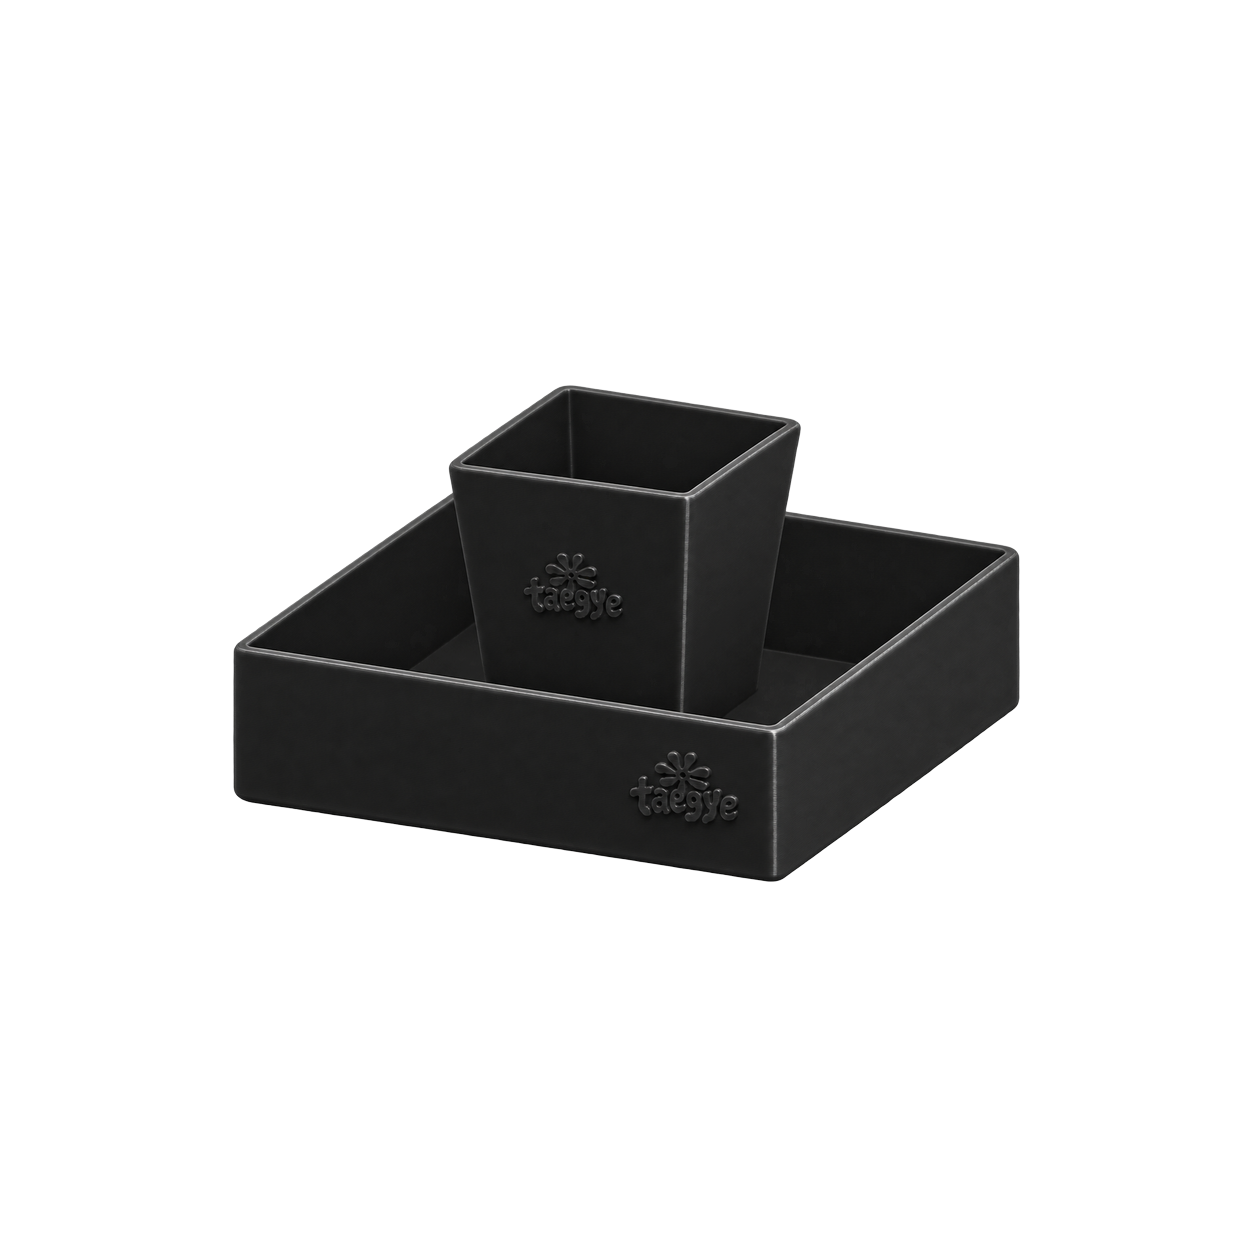
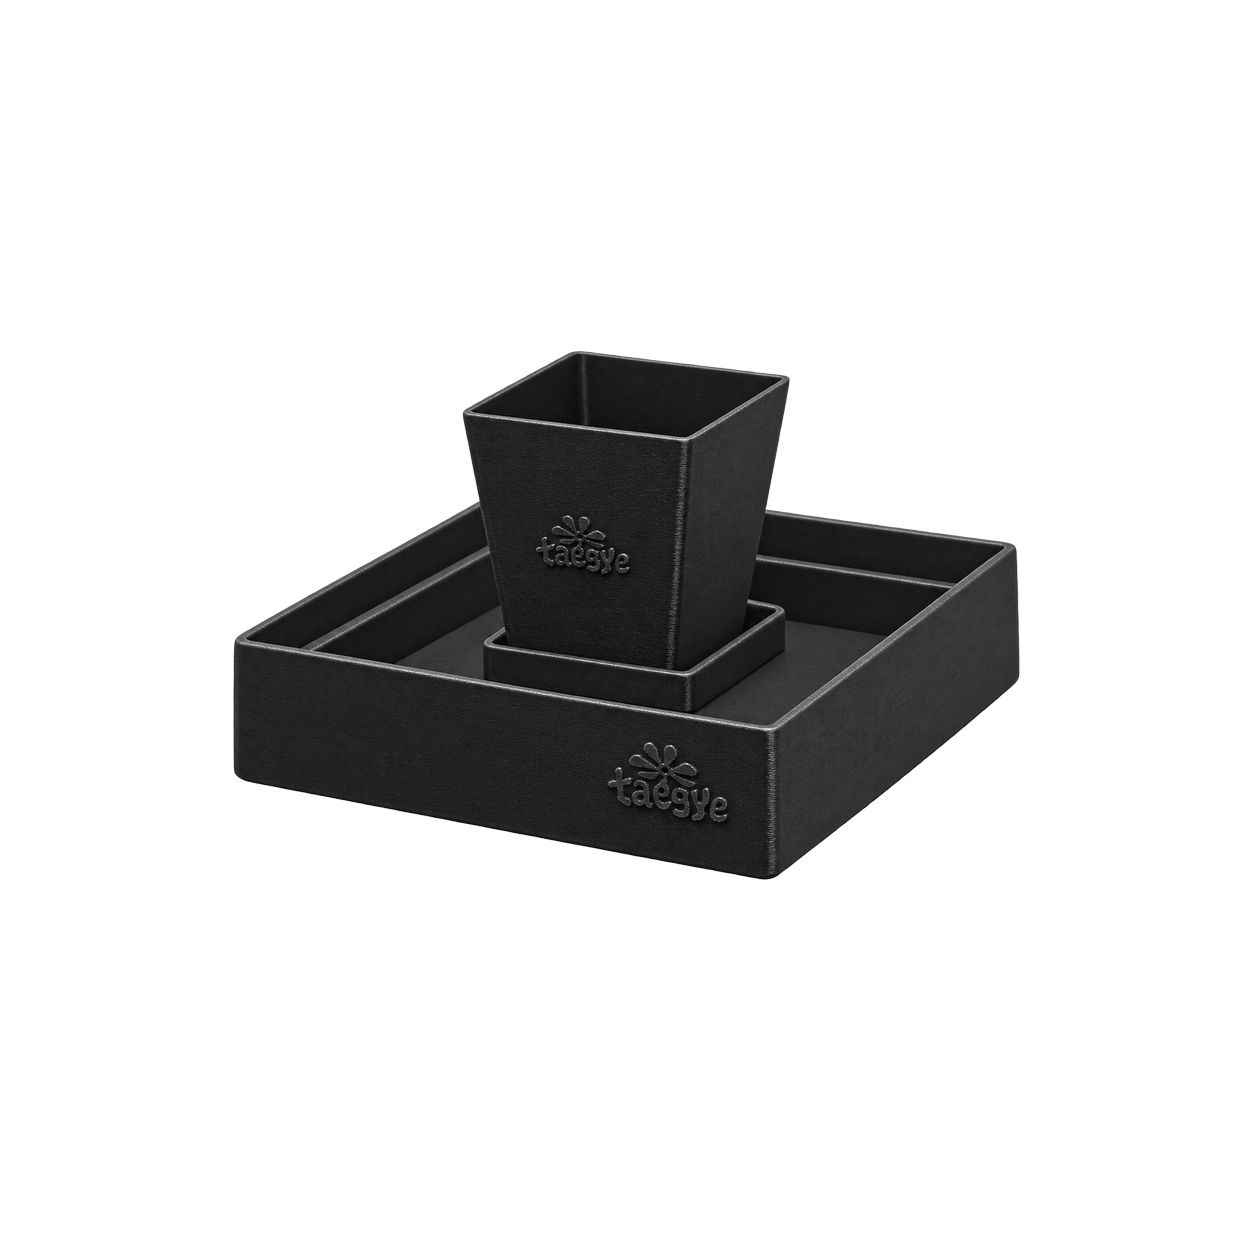
Replace One Port 141 with the saucer renders.
Empty and planted cuts stay centered on the 1254 square at the previous width. The feature lines still match a tapered square pot with the square tray.

diff --git a/src/lib/site.ts b/src/lib/site.ts
@@ -496,8 +496,8 @@ export const NEW_PRODUCTS: NewProduct[] = [
     dimensions: "",
     planting: "",
     price: MINI_PORT_HOLLOW_PRICE,
-    emptySrc: "/products/mini-port-hollow.png?v=5",
-    mossSrc: "/products/mini-port-hollow-planted.png?v=5",
+    emptySrc: "/products/mini-port-hollow.png?v=6",
+    mossSrc: "/products/mini-port-hollow-planted.png?v=6",
     emptyAlt: `TAEGYE One Port 141, ${finishLabel("HOLLOW")}`,
     mossAlt: `TAEGYE One Port 141, ${finishLabel("HOLLOW")} with plant`,
   },
@@ -510,8 +510,8 @@ export const NEW_PRODUCTS: NewProduct[] = [
     dimensions: "",
     planting: "",
     price: MINI_PORT_PRICE,
-    emptySrc: "/products/mini-port-purple.png?v=5",
-    mossSrc: "/products/mini-port-purple-planted.png?v=5",
+    emptySrc: "/products/mini-port-purple.png?v=6",
+    mossSrc: "/products/mini-port-purple-planted.png?v=6",
     emptyAlt: `TAEGYE One Port 141, ${finishLabel("ODD")}`,
     mossAlt: `TAEGYE One Port 141, ${finishLabel("ODD")} with plant`,
   },
@@ -524,8 +524,8 @@ export const NEW_PRODUCTS: NewProduct[] = [
     dimensions: "",
     planting: "",
     price: MINI_PORT_PRICE,
-    emptySrc: "/products/mini-port-black.png?v=5",
-    mossSrc: "/products/mini-port-black-planted.png?v=5",
+    emptySrc: "/products/mini-port-black.png?v=6",
+    mossSrc: "/products/mini-port-black-planted.png?v=6",
     emptyAlt: `TAEGYE One Port 141, ${finishLabel("VOID")}`,
     mossAlt: `TAEGYE One Port 141, ${finishLabel("VOID")} with plant`,
   },
@@ -538,8 +538,8 @@ export const NEW_PRODUCTS: NewProduct[] = [
     dimensions: "",
     planting: "",
     price: MINI_PORT_PRICE,
-    emptySrc: "/products/mini-port-white.png?v=5",
-    mossSrc: "/products/mini-port-white-planted.png?v=5",
+    emptySrc: "/products/mini-port-white.png?v=6",
+    mossSrc: "/products/mini-port-white-planted.png?v=6",
     emptyAlt: `TAEGYE One Port 141, ${finishLabel("MIST")}`,
     mossAlt: `TAEGYE One Port 141, ${finishLabel("MIST")} with plant`,
   },
